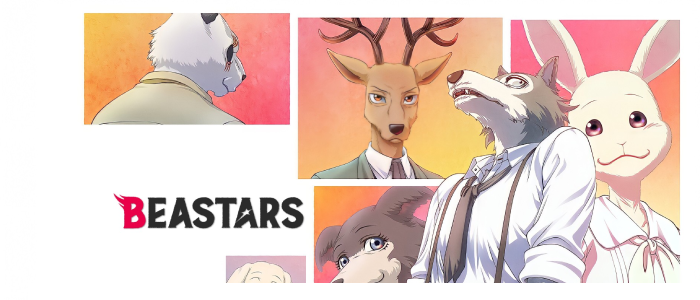
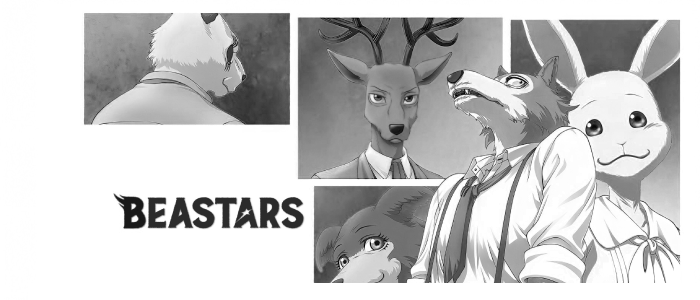
add: testing .env option - add: colourless welcome image - add: settings logging

diff --git a/commands/settings.py b/commands/settings.py
@@ -5,7 +5,7 @@ from discord.ui import View, RoleSelect
 
 from pymongo import AsyncMongoClient as MongoClient
 
-from lib.logging import log
+from lib.logging import log, log_message
 from lib.embeds import errorEmbed, successEmbed, generalEmbed
 from lib.envLoader import env
 from lib.settingsLib import resetSettings as resetServerSettings, updateSettings
@@ -35,7 +35,7 @@ if dbEnabled:
     server_settings_collection = db["server_settings"]
 
 async def checkOwner(interaction: discord.Interaction):
-    if interaction.user == interaction.guild.owner or interaction.user.guild_permissions.administrator:
+    if interaction.user == interaction.guild.owner or interaction.user.guild_permissions.administrator or (interaction.user.id == int(env("OWNER_ID", 0)) and env("TESTING", "false").lower() == "true"):
         return True
     else:
         await interaction.response.send_message(embed=errorEmbed(title="Insufficient Permissions", description="Only administrators and the server owner has access to this command!"))
@@ -132,6 +132,7 @@ class MultiRoleSelectView(View):
             
             # if the save was a success
             await response.edit(content=None, embed=successEmbed(title="Settings", description=f"Your selected moderator roles were saved! They may take up to 5 minutes to be applied.\n\n**You selected: {', '.join(selected_roles)}**"), view=None)
+            await log_message(interaction.guild_id, interaction.client, f"{interaction.user.name} updated moderator roles to: {', '.join(selected_roles)}", "cmd")
 
 # view settings command
 @group.command(name="view", description="View your current server settings!")
@@ -193,6 +194,7 @@ async def set_auto_responder_channel(interaction: discord.Interaction, channel: 
 
             # if the save was a success
             await response.edit(content=None, embed=successEmbed(title="Settings", description=f"Your selected auto-responder channel was saved! It may take up to 5 minutes to be applied.\n\n**You selected: {channel.mention}**"), view=None)
+            await log_message(interaction.guild_id, interaction.client, f"{interaction.user.name} updated auto-responder channel to: {channel.mention}", "cmd")
 
 
 @group.command(name="logs", description=f"Set up your logs channel.")
@@ -220,7 +222,8 @@ async def set_logs_channel(interaction: discord.Interaction, channel: discord.Te
 
             # if the save was a success
             await response.edit(content=None, embed=successEmbed(title="Settings", description=f"Your selected log channel was saved! It may take up to 5 minutes to be applied.\n\n**You selected: {channel.mention}**"), view=None)
-
+            await log_message(interaction.guild_id, interaction.client, f"{interaction.user.name} updated logs channel to: {channel.mention}", "cmd")
+            await log_message(interaction.guild_id, interaction.client, f"Logs channel updated successfully!", "info")
 
 @group.command(name="welcome", description=f"Set up your welcome message channel.")
 @app_commands.describe(channel="The channel where we will send welcome messages to")
@@ -247,6 +250,7 @@ async def set_welcome_channel(interaction: discord.Interaction, channel: discord
 
             # if the save was a success
             await response.edit(content=None, embed=successEmbed(title="Settings", description=f"Your selected welcome channel was saved! It may take up to 5 minutes to be applied.\n\n**You selected: {channel.mention}**"), view=None)
+            await log_message(interaction.guild_id, interaction.client, f"{interaction.user.name} updated welcome channel to: {channel.mention}", "cmd")
 
 
 @group.command(name="leave", description=f"Set up your leave message channel.")
@@ -274,6 +278,7 @@ async def set_leave_channel(interaction: discord.Interaction, channel: discord.T
 
             # if the save was a success
             await response.edit(content=None, embed=successEmbed(title="Settings", description=f"Your selected leave channel was saved! It may take up to 5 minutes to be applied.\n\n**You selected: {channel.mention}**"), view=None)
+            await log_message(interaction.guild_id, interaction.client, f"{interaction.user.name} updated leave channel to: {channel.mention}", "cmd")
 
 
 @group.command(name="mod-mail", description=f"Set up your mod mail channel")
@@ -301,6 +306,7 @@ async def set_mod_mail_channel(interaction: discord.Interaction, channel: discor
 
             # if the save was a success
             await response.edit(content=None, embed=successEmbed(title="Settings", description=f"Your selected mod mail channel was saved! It may take up to 5 minutes to be applied.\n\n**You selected: {channel.mention}**"), view=None)
+            await log_message(interaction.guild_id, interaction.client, f"{interaction.user.name} updated mod mail channel to: {channel.mention}", "cmd")
 
 
 @group.command(name="allow-anonymous-modmail", description=f"Set whether mod mail messages can be sent anonymously or not.")
@@ -328,7 +334,7 @@ async def set_allow_anonymous_modmail(interaction: discord.Interaction, allow_an
 
             # if the save was a success
             await response.edit(content=None, embed=successEmbed(title="Settings", description=f"Your anonymous mod mail setting was saved! It may take up to 5 minutes to be applied.\n\n**You selected: {allow_anonymous}**"), view=None)
-
+            await log_message(interaction.guild_id, interaction.client, f"{interaction.user.name} updated anonymous mod mail setting to: {allow_anonymous}", "cmd")
 
 @group.command(name="reset", description="Reset all bot settings or a specific setting.")
 @app_commands.describe(setting="Leave empty to reset all server settings")
@@ -352,6 +358,8 @@ async def reset_settings(interaction: discord.Interaction, setting: str | None =
         readyToSave = await processInteraction(response=response, view=view)
 
         if readyToSave:
+            await log_message(interaction.guild_id, interaction.client, f"{interaction.user.name} reset {setting_label}", "cmd")
+
             success, error = await resetServerSettings(guildId=interaction.guild_id, key=setting)
 
             if not success:
@@ -367,6 +375,7 @@ async def reset_settings(interaction: discord.Interaction, setting: str | None =
                     ),
                     view=None,
                 )
+
             else:
                 await response.edit(
                     content=None,

diff --git a/lib/logging.py b/lib/logging.py
@@ -3,7 +3,7 @@ import datetime
 import logging as py_logging
 
 import discord
-from pymongo import AsyncMongoClient, MongoClient
+from pymongo import MongoClient
 
 from lib.envLoader import env
 
@@ -15,29 +15,43 @@ if not logger.handlers:
     logger.setLevel(py_logging.INFO)
     logger.propagate = False
 
-loggingEnabled = env("DB_URI", None) is not None
+db_uri = env("DB_URI", None)
+dbEnabled = db_uri is not None
+loggingEnabled = dbEnabled
 
-if loggingEnabled:
-    db_uri = env("DB_URI")
-    db_name = env("DB_MAIN_COLLECTION_NAME", "bot")
+if dbEnabled:
+    mongo_client = MongoClient(db_uri)
+    db = mongo_client[env("DB_MAIN_COLLECTION_NAME", "bot")]
+    moderationLogs = db["modLogs"]
+    logs_collection = db["logsCollection"]
+    server_settings_collection = db["server_settings"]
+else:
+    mongo_client = None
+    db = None
+    moderationLogs = None
+    logs_collection = None
+    server_settings_collection = None
 
-    async_mongo_client = AsyncMongoClient(db_uri)
-    async_db = async_mongo_client[db_name]
-    logs_collection = async_db["logs"]
-    server_settings_collection = async_db["server_settings"]
 
-    sync_mongo_client = MongoClient(db_uri)
-    sync_db = sync_mongo_client[db_name]
-    sync_logs_collection = sync_db["logs"]
+def _build_log_document(guild_id: int | str, message: str):
+    return {
+        "guildid": guild_id,
+        "message": message,
+        "timestamp": datetime.datetime.now().isoformat(),
+    }
 
 
-async def log_message(guild_id: int, client: discord.Client, message: str, type: str):
-    settings = await server_settings_collection.find_one({"guild_id": guild_id})
+async def log_message(guild_id: int, client: discord.Client, message: str, log_type: str):
+    if server_settings_collection is None:
+        logger.warning("No database connected; cannot send log message for guild %s", guild_id)
+        return
+
+    settings = await asyncio.to_thread(server_settings_collection.find_one, {"guildId": guild_id})
     if not settings:
         logger.warning("No server settings found for guild %s", guild_id)
         return
 
-    channel_id = settings.get("log_channel_id")
+    channel_id = settings.get("logsChannel")
     if not channel_id:
         logger.warning("No log channel configured for guild %s", guild_id)
         return
@@ -51,8 +65,9 @@ async def log_message(guild_id: int, client: discord.Client, message: str, type:
     }
 
     if channel:
+        title = types.get(log_type, types["info"])
         embed = discord.Embed(
-            title=types[type] or types["info"],
+            title=title,
             description=message,
             color=discord.Color.blue(),
         )
@@ -60,31 +75,23 @@ async def log_message(guild_id: int, client: discord.Client, message: str, type:
 
 
 async def _persist_log(guild_id: int | str, message: str):
-    if loggingEnabled:
-        try:
-            await logs_collection.insert_one(
-                {
-                    "guildid": guild_id,
-                    "message": message,
-                    "timestamp": datetime.datetime.now().isoformat(),
-                }
-            )
-        except Exception:
-            logger.exception("Failed to persist async log for guild %s", guild_id)
+    if not loggingEnabled or logs_collection is None:
+        return
+
+    try:
+        await asyncio.to_thread(logs_collection.insert_one, _build_log_document(guild_id, message))
+    except Exception:
+        logger.exception("Failed to persist async log for guild %s", guild_id)
 
 
 def _persist_log_sync(guild_id: int | str, message: str):
-    if loggingEnabled:
-        try:
-            sync_logs_collection.insert_one(
-                {
-                    "guildid": guild_id,
-                    "message": message,
-                    "timestamp": datetime.datetime.now().isoformat(),
-                }
-            )
-        except Exception:
-            logger.exception("Failed to persist sync log for guild %s", guild_id)
+    if not loggingEnabled or logs_collection is None:
+        return
+
+    try:
+        logs_collection.insert_one(_build_log_document(guild_id, message))
+    except Exception:
+        logger.exception("Failed to persist sync log for guild %s", guild_id)
 
 
 def log(guild_id: int | str, message: str):

diff --git a/main.py b/main.py
@@ -47,7 +47,7 @@ async def cycle_status():
     status = statuses[current_status_index % len(statuses)]
     for placeholder, value in formats.items():
         status = status.replace(placeholder, value)
-    await bot.change_presence(activity=discord.CustomActivity(name=f"/help | {status}"), status=discord.Status.online)
+    await bot.change_presence(activity=discord.CustomActivity(name=f"{'' if not testing_enabled else 'test mode '}/help | {status}"), status=discord.Status.online)
     current_status_index += 1
 
 # when the bot logs in
@@ -71,7 +71,7 @@ async def on_ready():
             cycle_status.start()
     else:
         log("GLOBAL", "No statuses loaded, skipping status cycling.")
-        await bot.change_presence(activity=discord.CustomActivity(name="/help"), status=discord.Status.online)
+        await bot.change_presence(activity=discord.CustomActivity(name=f"{'' if not testing_enabled else 'test mode '}/help"), status=discord.Status.online)
 
     # if the db is not set up, log a warning that some features may not work
     if env("DB_URI", None) is None:
@@ -119,10 +119,15 @@ async def on_message(message: discord.Message):
 # when the script is ran from the command line, load all commands from the commands folder and start the bot
 if __name__ == "__main__":
     log("GLOBAL", f"Initializing commands...")
+    testing_value = env("TESTING", False)
+    testing_enabled = testing_value if isinstance(testing_value, bool) else str(testing_value).lower() == "true"
     
     for filename in os.listdir("./commands"):
         if filename.endswith(".py") and filename != "__init__.py":
-            if env("TESTING", "false").lower() == "true" and not filename.startswith("tests"):
+            if not testing_enabled and filename.startswith("tests"):
+                continue
+            
+            if filename.startswith("example"):
                 continue
             
             module_name = f"commands.{filename[:-3]}"

diff --git a/README.md b/README.md
@@ -1,29 +1,1 @@
 # BeastcordBot
-
-A basic `discord.py` bot project with Docker Compose and MongoDB.
-
-## Project structure
-
-- `src/bot.py`: bot entry point
-- `src/db.py`: MongoDB connection helpers
-- `docker-compose.yml`: bot + MongoDB stack
-- `scripts/build_test.sh`: simple build/start helper
-
-## Quick start
-
-1. Copy `.env.example` to `.env` and set your token and guild id:
-   - `cp .env.example .env`
-2. Build and start the stack:
-   - `./scripts/build_test.sh`
-3. View logs if needed:
-   - `docker compose logs -f bot`
-
-## Bot commands
-
-- `!ping`: replies with `Pong!`
-
-## Notes
-
-- MongoDB data is persisted in the named volume `mongo_data`.
-- If MongoDB is unavailable, the bot still starts and runs without DB features.
-- The bot reads `.env` variables such as `DISCORD_TOKEN`, `MAIN_GUILD_ID`, `MONGO_URI`, and `BOT_PREFIX`.
